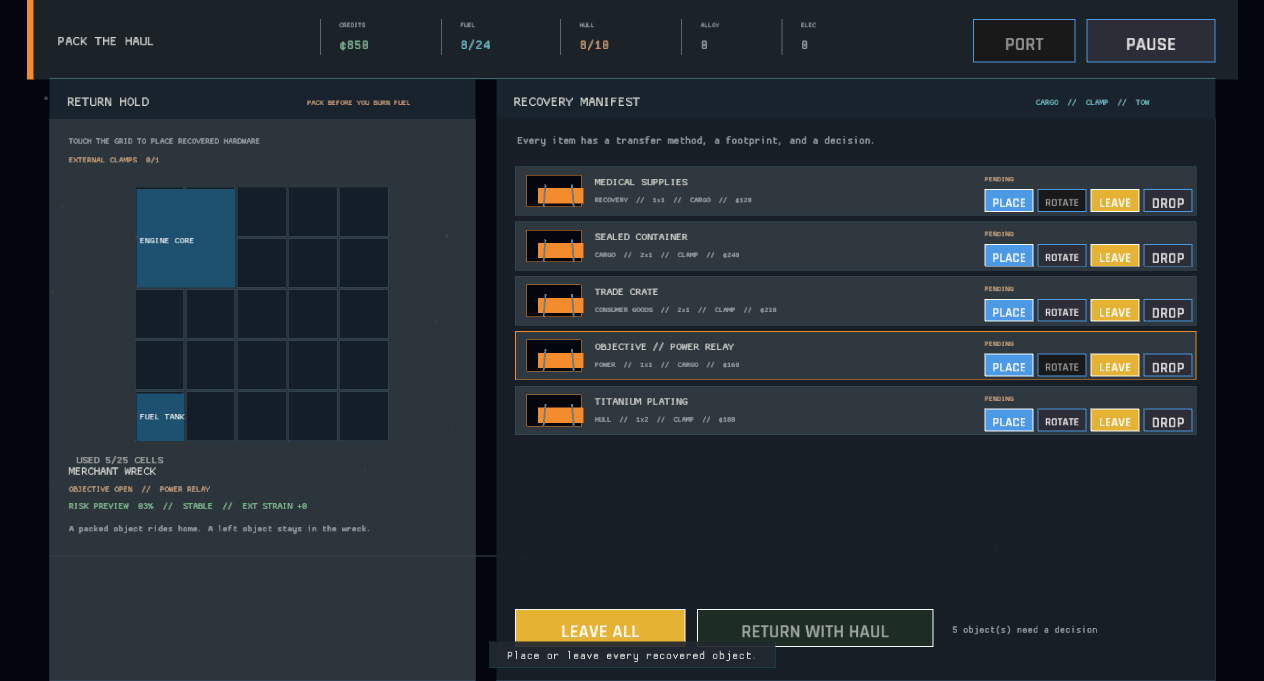
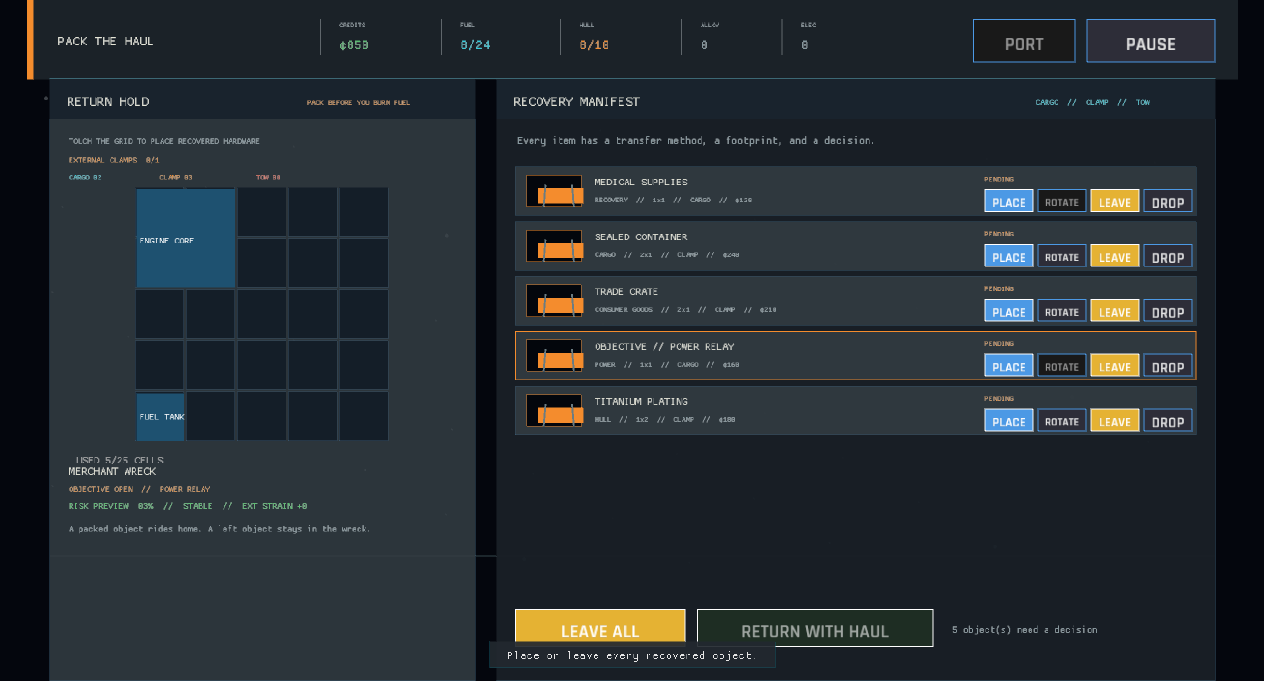
The hold counts every route before the return burn (packing transfer summary)
Add a compact route summary to the return hold so captains can see the pending Cargo, Clamp, and Tow mix before placing or leaving the haul.

Refresh the packing verification capture after the transfer-mode summary and retain the typed mode mapping as the source of truth.

diff --git a/src/ui/salvage_items.rs b/src/ui/salvage_items.rs
@@ -46,6 +46,28 @@ fn draw_hold_panel(ctx: &UiContext<'_>, actions: &mut Vec<UiAction>) {
         11.0,
         visual_theme::amber(),
     );
+    let (cargo_count, clamp_count, tow_count) = transfer_counts(ctx);
+    draw_text(
+        format!("CARGO {:02}", cargo_count),
+        hold.x + 20.0,
+        hold.y + 106.0,
+        10.0,
+        visual_theme::cyan(),
+    );
+    draw_text(
+        format!("CLAMP {:02}", clamp_count),
+        hold.x + 116.0,
+        hold.y + 106.0,
+        10.0,
+        visual_theme::amber(),
+    );
+    draw_text(
+        format!("TOW {:02}", tow_count),
+        hold.x + 218.0,
+        hold.y + 106.0,
+        10.0,
+        visual_theme::warning(),
+    );
     draw_ship_grid(ctx, Rect::new(52.0, 198.0, 394.0, 270.0), true, actions);
     let site_label =
         ctx.session
@@ -122,6 +144,28 @@ fn draw_hold_panel(ctx: &UiContext<'_>, actions: &mut Vec<UiAction>) {
         12.0,
         visual_theme::text_dim(),
     );
+}
+
+fn transfer_counts(ctx: &UiContext<'_>) -> (usize, usize, usize) {
+    let mut counts = (0, 0, 0);
+    let Some(expedition) = &ctx.session.expedition else {
+        return counts;
+    };
+    for cargo in expedition
+        .cargo
+        .iter()
+        .filter(|cargo| matches!(cargo.status, CargoStatus::Pending | CargoStatus::Packed))
+    {
+        let Some(object) = ctx.data.salvage_objects.get(&cargo.object_id) else {
+            continue;
+        };
+        match TransferMode::from_target(object) {
+            TransferMode::InternalCargo => counts.0 += 1,
+            TransferMode::ExternalClamp => counts.1 += 1,
+            TransferMode::Tow => counts.2 += 1,
+        }
+    }
+    counts
 }
 
 fn draw_manifest(ctx: &UiContext<'_>, actions: &mut Vec<UiAction>) {
